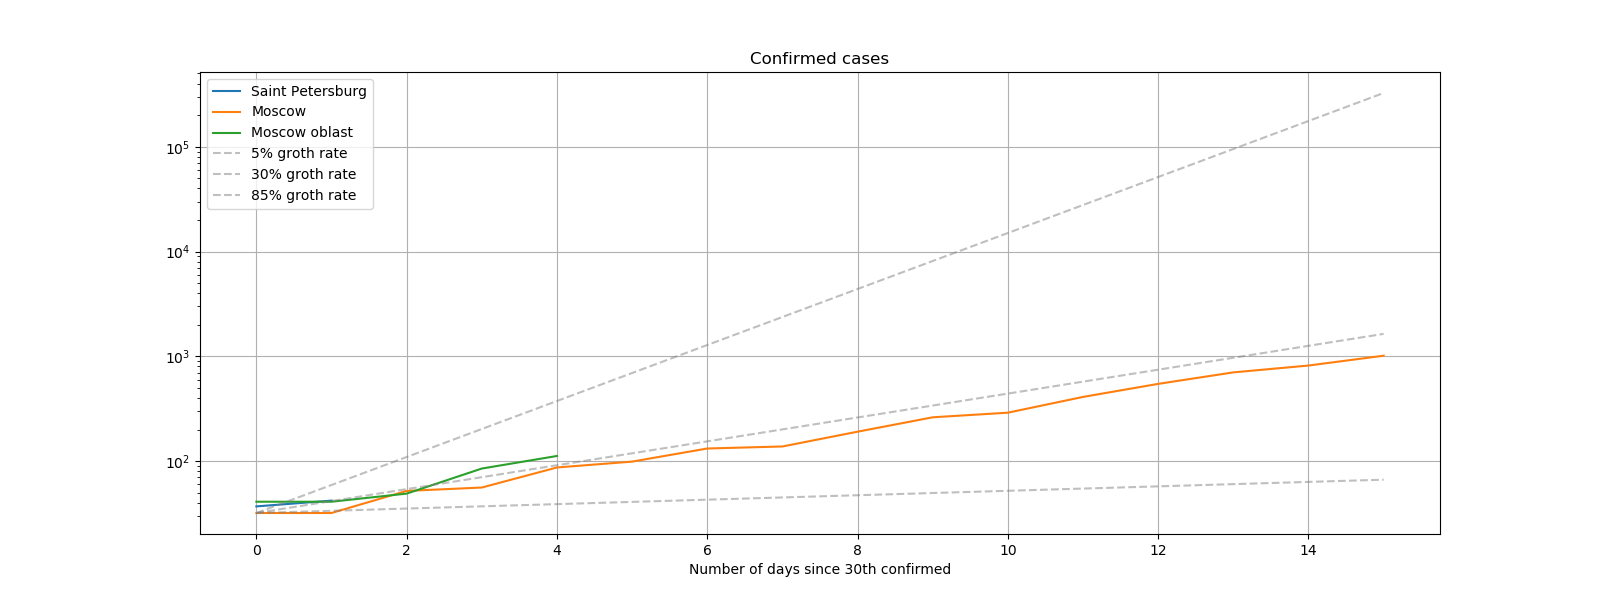
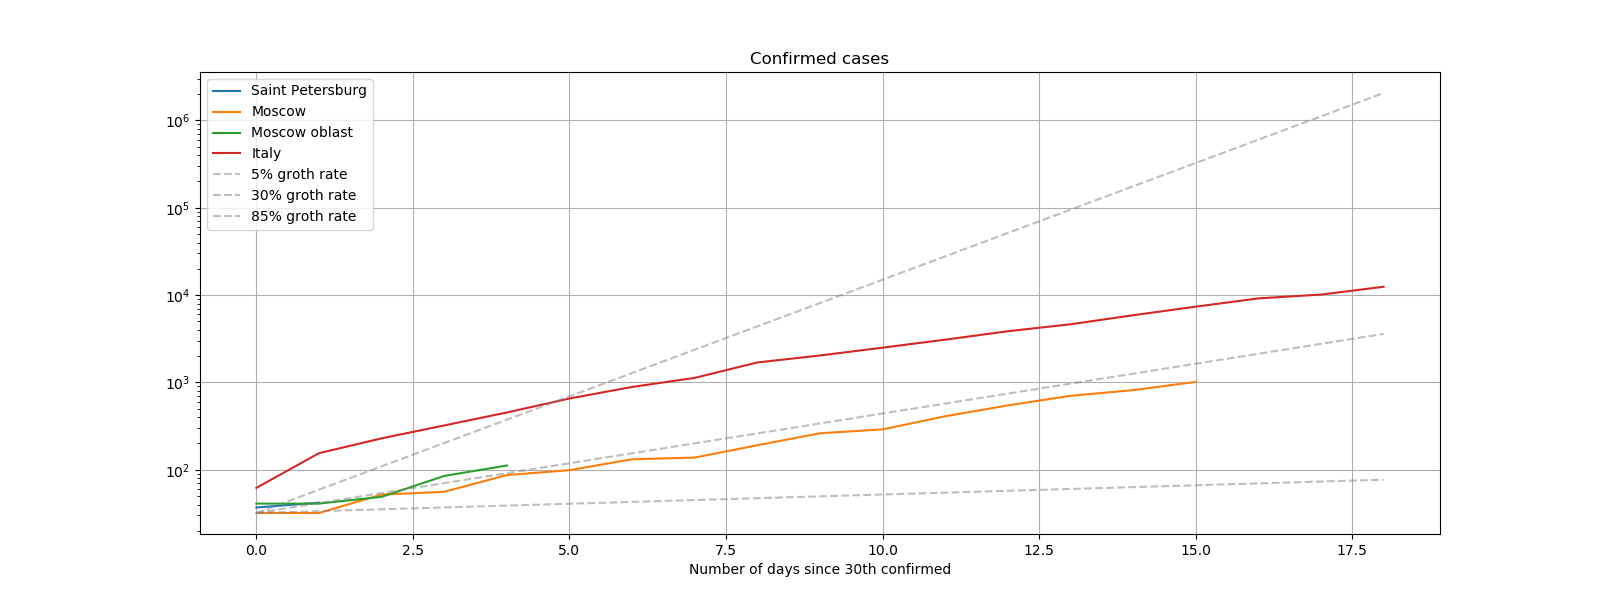
Update plot

diff --git a/python3/src/covid19ru/plot.py b/python3/src/covid19ru/plot.py
@@ -1,7 +1,8 @@
 import matplotlib.pyplot as plt
 from math import pow
 from .access import load, timelines
-
+from itertools import chain
+from datetime import datetime
 
 def plot(confirmed_min_threshold=30, show:bool=False)->None:
   plt.figure(figsize=(16, 6))
@@ -9,15 +10,24 @@ def plot(confirmed_min_threshold=30, show:bool=False)->None:
 
   max_tick=0
   min_confirmed=99999999
-  for (ps,cr),tl in timelines(country_region='Russia').items():
-    if ps is None:
+  out={}
+  out.update(timelines(country_region='Russia'))
+  out.update(timelines(country_region='Italy'))
+  ndays_in_russia_after_threshold=(out['Moscow','Russia'].dates[-1]-out['Moscow','Russia'].dates[0]).days-5
+
+  for (ps,cr),tl in out.items():
+    print(ps,cr)
+    if ps is None and cr=='Russia':
       continue # Skip whole Russia which is similar to Moscow
     if tl.confirmed[-1]<10:
       continue
 
-    ticks=[]; tick=0; confirmed=[]
+    ticks=[]; tick=0; confirmed=[]; dstart=None;
     for d,c in zip(tl.dates,tl.confirmed):
       if c<=confirmed_min_threshold:
+        continue
+      dstart=d if dstart is None else dstart
+      if (d-dstart).days>ndays_in_russia_after_threshold:
         continue
       ticks.append(tick)
       confirmed.append(c)
@@ -29,6 +39,7 @@ def plot(confirmed_min_threshold=30, show:bool=False)->None:
     min_confirmed=min(min_confirmed,confirmed[0])
 
     plt.plot(ticks, confirmed, label=f'{ps or cr}')
+
 
   plt.plot(range(max_tick),[min_confirmed*pow(1.05,x) for x in range(max_tick)],
            color='grey', linestyle='--', label='5% groth rate', alpha=0.5)

diff --git a/python3/src/covid19ru/access.py b/python3/src/covid19ru/access.py
@@ -76,14 +76,15 @@ def timelines(province_state:Optional[str]=None,country_region:Optional[str]=Non
       df=df[df['Country_Region']==country_region]
     if len(df.index)==0:
       continue
-    df=df.where(pd.notnull(df), None)
+    def _fixnan(df, default=None):
+      return df.where(pd.notnull(df), default)
     for i in range(len(df.index)):
-      ps=df['Province_State'].iloc[i]
-      cr=df['Country_Region'].iloc[i]
+      ps=_fixnan(df['Province_State']).iloc[i]
+      cr=_fixnan(df['Country_Region']).iloc[i]
       dates[(ps,cr)].append(d)
-      confirmed[(ps,cr)].append(df['Confirmed'].iloc[i])
-      deaths[(ps,cr)].append(df['Deaths'].iloc[i])
-      recovered[(ps,cr)].append(df['Recovered'].iloc[i])
+      confirmed[(ps,cr)].append(_fixnan(df['Confirmed'],0).astype('int32').iloc[i])
+      deaths[(ps,cr)].append(_fixnan(df['Deaths'],0).astype('int32').iloc[i])
+      recovered[(ps,cr)].append(_fixnan(df['Recovered'],0).astype('int32').iloc[i])
       keys.append((ps,cr))
   ret={}
   for k in keys:
